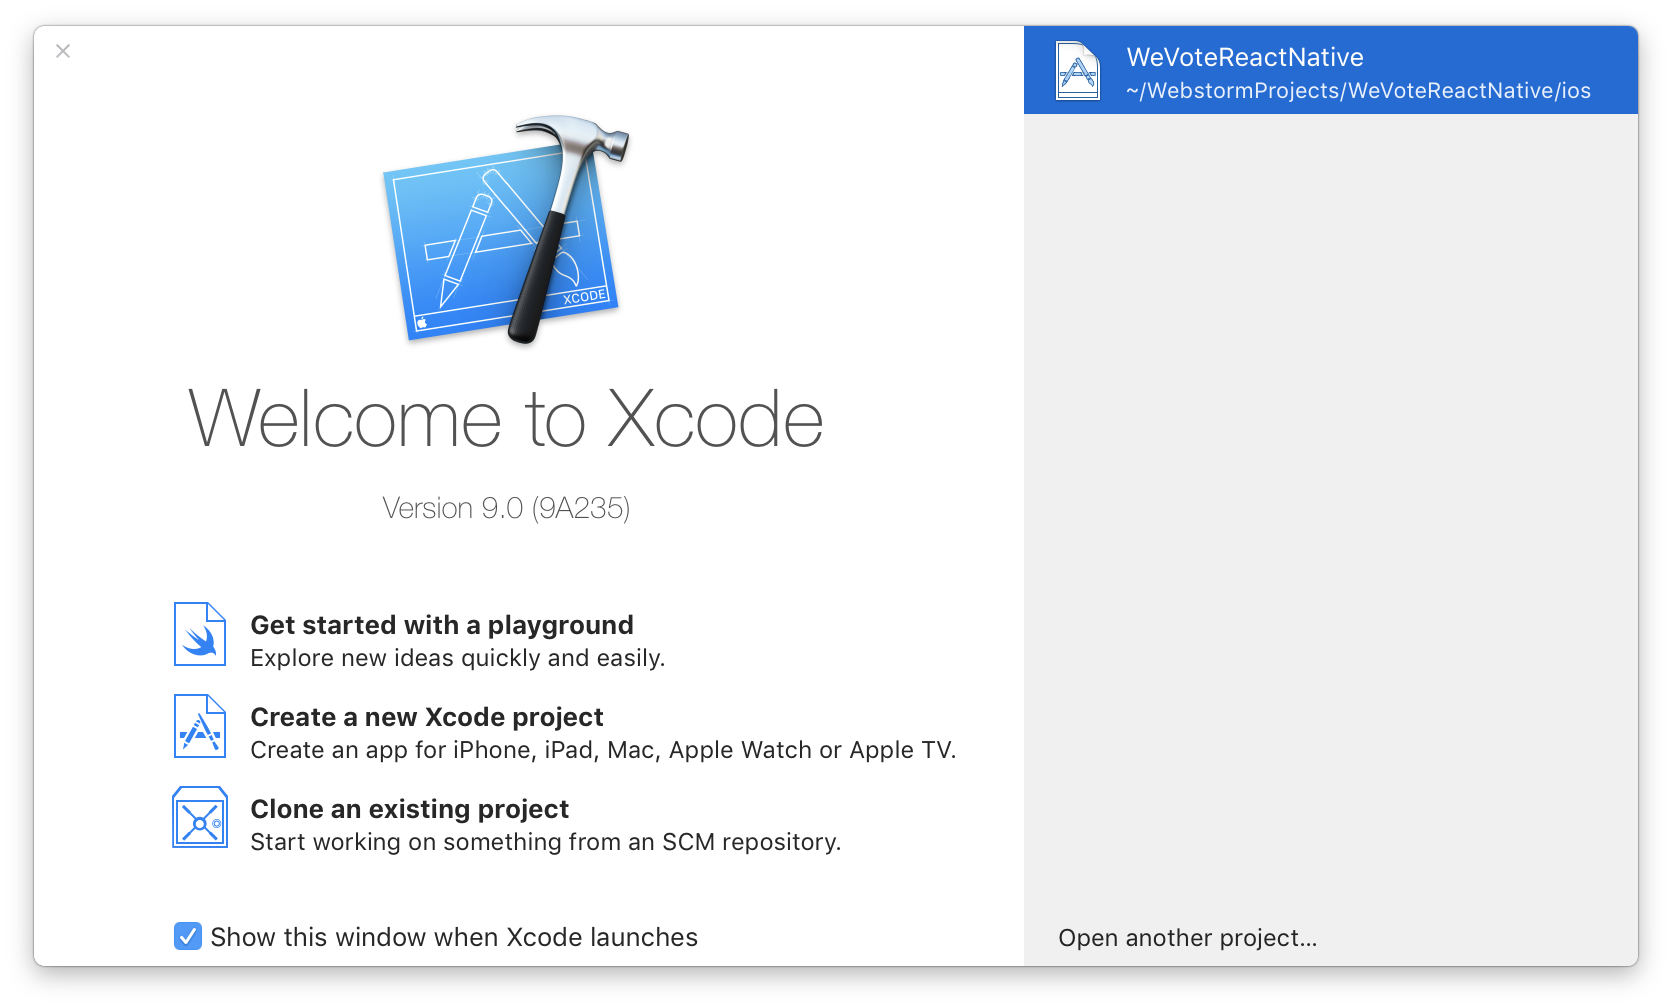
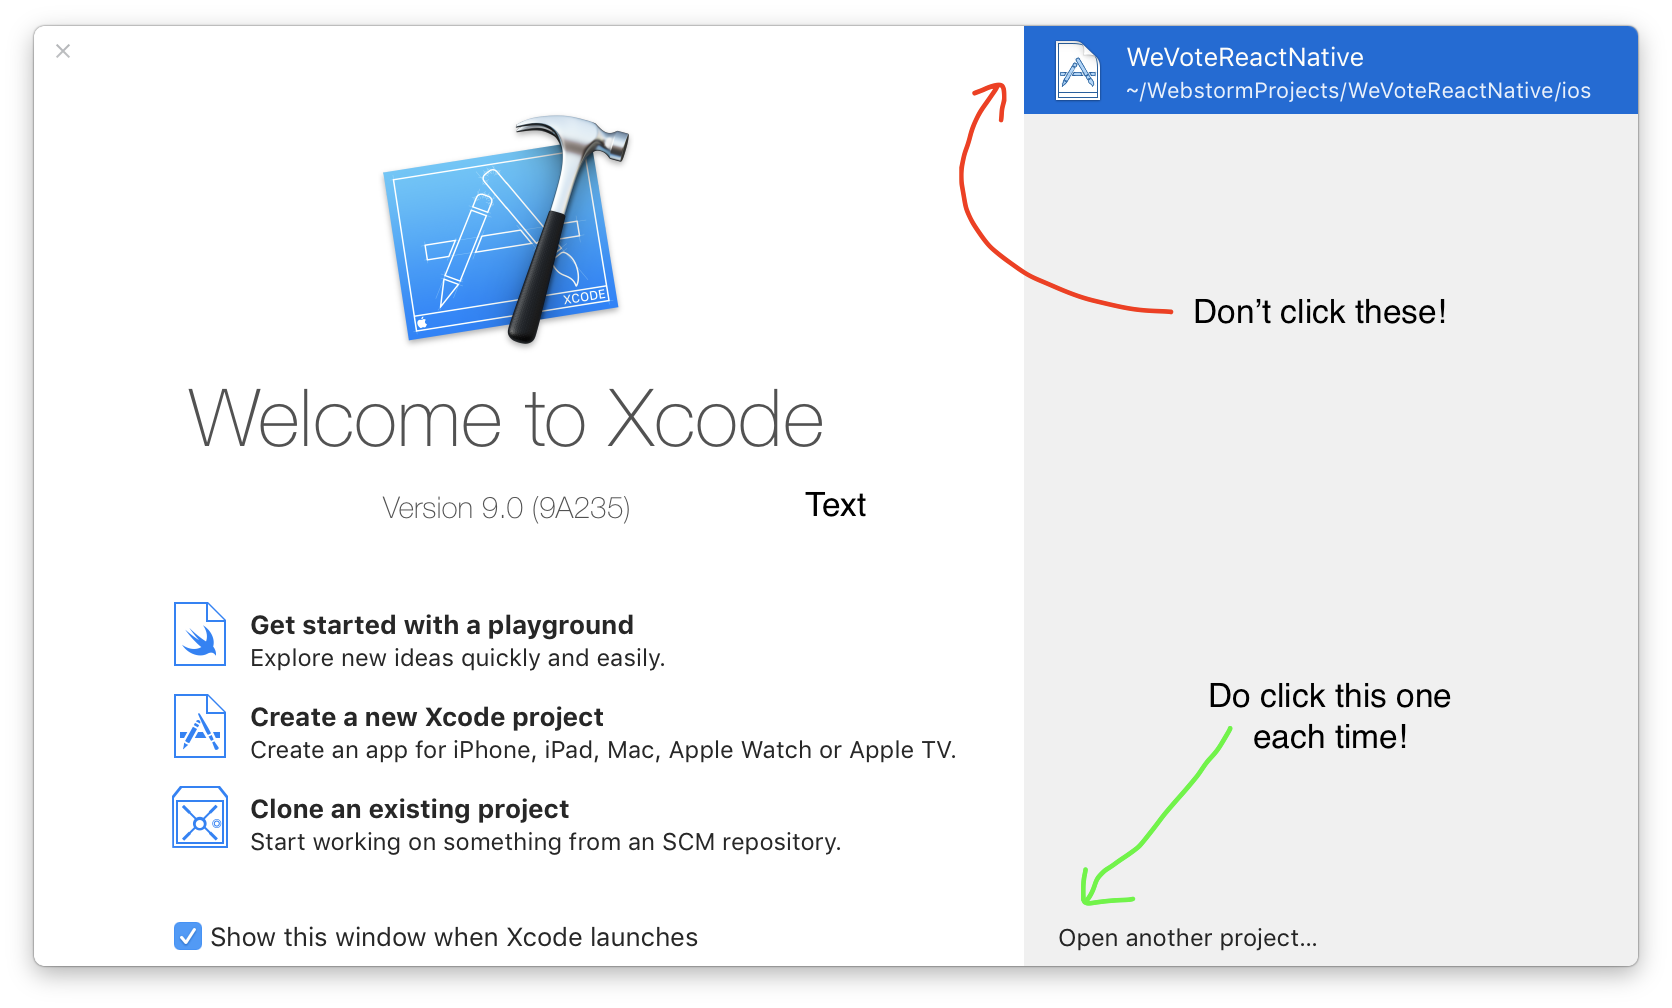
Documentation updates for iOS and Android

diff --git a/docs/installing/RUNNING_FIRST_TIME.md b/docs/installing/RUNNING_FIRST_TIME.md
@@ -24,13 +24,13 @@ I recommend this method because then you have easier access to the XCode console
 
 2. From within XCode, open this project.  **Be sure to open the xcworkspace!**  (not the xcodeproj!):
 
-    /Users/\<YOUR NAME HERE\>/MyProjects/WeVoteReactNative/ios/WeVoteReactNative.xcworkspace
+    `/Users/\<YOUR NAME HERE\>/MyProjects/WeVoteReactNative/ios/WeVoteReactNative.xcworkspace`
 
-Don't pick a project from the reverse blue history list above, those are xcodeproj's not the xcodeproj files that you need to use.
+Don't pick a project from the reverse blue history list on the top right of the dialog, those are xcodeproj's not the xcodeproj files that you need to use.
 
 <img src="https://github.com/wevote/WeVoteReactNative/blob/develop/docs/images/Welcome%20To%20Xcode.png" alt="alt text" width="600" >
 
-Clic the "Open another project..." link at the bottom, then select the WeVoteReactNative.xcworkspace entry.
+Clic the "Open another project..." link at the bottom right, then select the WeVoteReactNative.xcworkspace entry.
 
 <img src="https://github.com/wevote/WeVoteReactNative/blob/develop/docs/images/iOS%20SelectWorkspace.png" alt="alt text" width="600" >
 
